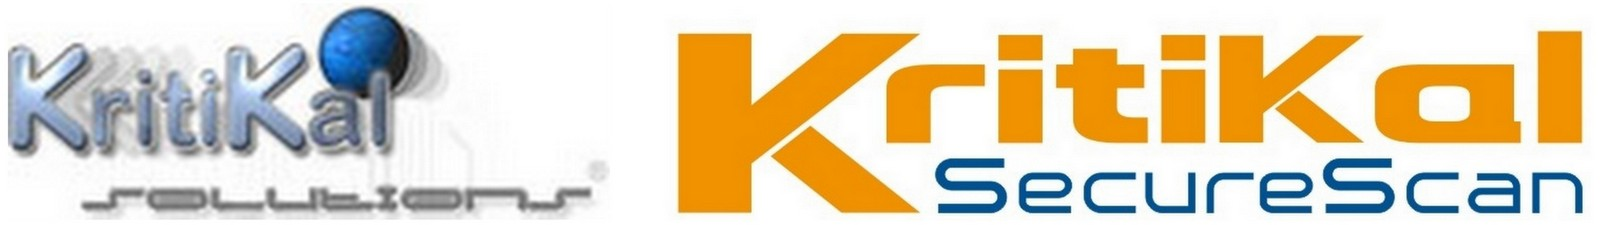
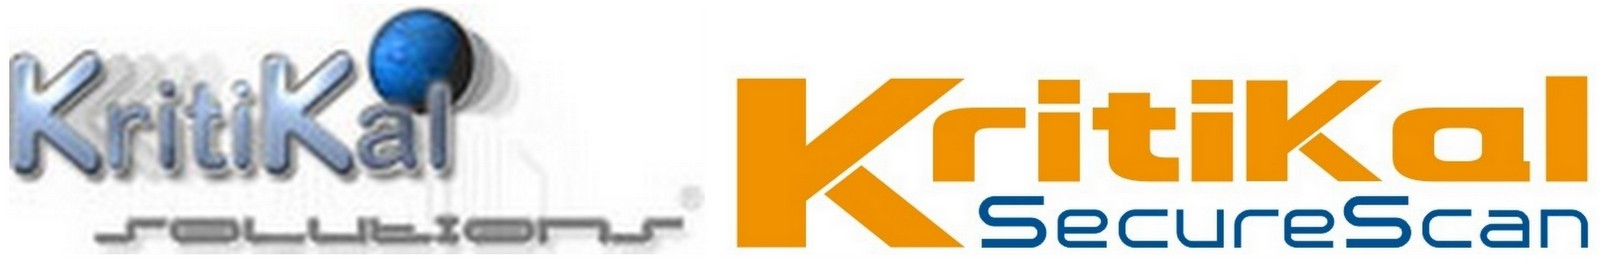
bugs fixed

diff --git a/style.css b/style.css
@@ -9,9 +9,9 @@ body { margin:0; padding:0; width:100%; color:#9a9a9a; font:normal 12px/1.8em Ar
 html,
 .main { padding:0; padding:0 0 0 0px; background:#fff url(images/main_bg2.jpg) top repeat:none;}
 .clr { clear:both; padding:0; margin:0; width:100%; font-size:0px; line-height:0px;}
-.logoleft { padding:0px 0px 0px 175px;  auto; width:100%; float:center;}
+.logoleft { padding:0px 0px 0px 175px; margin:auto; width:100%; float:center;}
 .logoleft img { float:left; margin:0px 10px 0px 0; }
-.logoright{ padding:10px 175px 0px 0; margin:0 auto; width:50px; float:right;}
+.logoright{ padding:10px 175px 0px 0; margin:0 auto; width:450px; float:right;position:relative}
 .logoright img { float:right; margin:0px 10px 0 0; }
 .logocenter{ padding:0px 0 0px 0; margin:0 auto; width:60%; position:left;}
 .logocenter img { float:center; margin:0px 10px 0 0; }
@@ -47,7 +47,7 @@ a.rm, a.com { margin-left:8px; padding:9px 12px; background:url(images/a_bg.gif)
 
 /* content */
 .content { padding:10px 0 0 0;}
-.content_resize { margin:0 auto; padding:20px 0 0 0; width:970px;}
+.content_resize { margin:0 auto; padding:20px 0 0 0; width:90%; min-width:970px; max-width:900px}
 .content .mainbar { margin:0; float:right;}
 .content .mainbar img { float:left; padding:4px; margin:0 10px 0 0; background-color:#dfdfdf;}
 

diff --git a/openhouse/style.css b/openhouse/style.css
@@ -11,7 +11,7 @@ html,
 .clr { clear:both; padding:0; margin:0; width:100%; font-size:0px; line-height:0px;}
 .logoleft { padding:0px 0px 0px 175px;  auto; width:100%; float:center;}
 .logoleft img { float:left; margin:0px 10px 0px 0; }
-.logoright{ padding:10px 175px 0px 0; margin:0 auto; width:50px; float:right;}
+.logoright{ padding:10px 175px 0px 0; margin:0 auto; width:450px; float:right;position:relative}
 .logoright img { float:right; margin:0px 10px 0 0; }
 .logocenter{ padding:0px 0 0px 0; margin:0 auto; width:60%; position:left;}
 .logocenter img { float:center; margin:0px 10px 0 0; }

diff --git a/style2.css b/style2.css
@@ -12,7 +12,7 @@ html,
 .clr { clear:both; padding:0; margin:0; width:100%; font-size:0px; line-height:0px;}
 .logoleft { padding:0px 0px 0px 175px;  auto; width:100%; float:center;}
 .logoleft img { float:left; margin:0px 10px 0px 0; }
-.logoright{ padding:10px 175px 0px 0; margin:0 auto; width:50px; float:right;}
+.logoright{ padding:10px 175px 0px 0; margin:0 auto; width:450px; float:right;position:relative}
 .logoright img { float:right; margin:0px 10px 0 0; }
 .logocenter{ padding:0px 0 0px 0; margin:0 auto; width:60%; position:left;}
 .logocenter img { float:center; margin:0px 10px 0 0; }

diff --git a/register.html b/register.html
@@ -53,11 +53,11 @@
     </script>
     <div class="logoright">
         <a target=_blank href="http://iiitd.ac.in"><img src="images/style3colorlarge.jpg" height="70px" width="auto"></a>
-        <img src="images/kskss.jpg" height="45px" width="auto"> 
+        <img src="images/kskss.jpg" height="55px" width="auto"> 
     </div>
 
     <div class="logoleft">
-        <a href="index.html"><img src="images/rslogowithquote.jpg" height="150px" width="auto"></a>
+        <a href="index.html"><img src="images/rslogowithquote.jpg" height="150px" width="550px"></a>
     </div>
 </head>
 <body>

diff --git a/IOT.html b/IOT.html
@@ -25,11 +25,11 @@
     </script>
     <div class="logoright">
         <a target=_blank href="http://iiitd.ac.in"><img src="images/style3colorlarge.jpg" height="70px" width="auto"></a>
-        <img src="images/kskss.jpg" height="45px" width="auto">
+        <img src="images/kskss.jpg" height="55px" width="auto">
     </div>
 
     <div class="logoleft">
-        <a href="index.html"><img src="images/rslogowithquote.jpg" height="150px" width="auto"></a>
+        <a href="index.html"><img src="images/rslogowithquote.jpg" height="150px" width="550px"></a>
     </div>
 </head>
 <body>

diff --git a/IOTideas.html b/IOTideas.html
@@ -25,11 +25,11 @@
     </script>
     <div class="logoright">
         <a target=_blank href="http://iiitd.ac.in"><img src="images/style3colorlarge.jpg" height="70px" width="auto"></a>
-        <img src="images/kskss.jpg" height="45px" width="auto">
+        <img src="images/kskss.jpg" height="55px" width="auto">
     </div>
 
     <div class="logoleft">
-        <a href="index.html"><img src="images/rslogowithquote.jpg" height="150px" width="auto"></a>
+        <a href="index.html"><img src="images/rslogowithquote.jpg" height="150px" width="550px"></a>
     </div>
 </head>
 <body>

diff --git a/events.html b/events.html
@@ -25,11 +25,11 @@
     </script>
     <div class="logoright">
         <a target=_blank href="http://iiitd.ac.in"><img src="images/style3colorlarge.jpg" height="70px" width="auto"></a>
-        <img src="images/kskss.jpg" height="45px" width="auto">
+        <img src="images/kskss.jpg" height="55px" width="auto">
     </div>
 
     <div class="logoleft">
-        <a href="index.html"><img src="images/rslogowithquote.jpg" height="150px" width="auto"></a>
+        <a href="index.html"><img src="images/rslogowithquote.jpg" height="150px" width="550px"></a>
     </div>
 </head>
 <body>

diff --git a/faq.html b/faq.html
@@ -25,11 +25,11 @@
     </script>
     <div class="logoright">
         <a target=_blank href="http://iiitd.ac.in"><img src="images/style3colorlarge.jpg" height="70px" width="auto"></a>
-        <img src="images/kskss.jpg" height="45px" width="auto">
+        <img src="images/kskss.jpg" height="55px" width="auto">
     </div>
 
     <div class="logoleft">
-        <a href="index.html"><img src="images/rslogowithquote.jpg" height="150px" width="auto"></a>
+        <a href="index.html"><img src="images/rslogowithquote.jpg" height="150px" width="550px"></a>
     </div>
 </head>
 <body>

diff --git a/contact.html b/contact.html
@@ -25,11 +25,11 @@
     </script>
     <div class="logoright">
         <a target=_blank href="http://iiitd.ac.in"><img src="images/style3colorlarge.jpg" height="70px" width="auto"></a>
-         <img src="images/kskss.jpg" height="45px" width="auto"> 
+         <img src="images/kskss.jpg" height="55px" width="auto"> 
     </div>
 
     <div class="logoleft">
-        <a href="index.html"><img src="images/rslogowithquote.jpg" height="150px" width="auto"></a>
+        <a href="index.html"><img src="images/rslogowithquote.jpg" height="150px" width="550px"></a>
     </div>
 
 </head>

diff --git a/index.html b/index.html
@@ -30,12 +30,12 @@
     	
     <div class="logoright">
         <a target=_blank href="http://iiitd.ac.in"><img src="images/style3colorlarge.jpg" height="70px" width="auto"></a>
-        <img src="images/kskss.jpg" height="45px" width="auto">
+        <img src="images/kskss.jpg" height="55px" width="auto">
         
     </div>
 
     <div class="logoleft">
-        <a href="index.html"><img src="images/rslogowithquote.jpg" height="150px" width="auto"></a>
+        <a href="index.html"><img src="images/rslogowithquote.jpg" height="150px" width="550px"></a>
     </div>
  
  <!--

diff --git a/openhouse/style2.css b/openhouse/style2.css
@@ -12,7 +12,7 @@ html,
 .clr { clear:both; padding:0; margin:0; width:100%; font-size:0px; line-height:0px;}
 .logoleft { padding:0px 0px 0px 175px;  auto; width:100%; float:center;}
 .logoleft img { float:left; margin:0px 10px 0px 0; }
-.logoright{ padding:10px 175px 0px 0; margin:0 auto; width:50px; float:right;}
+.logoright{ padding:10px 175px 0px 0; margin:0 auto; width:450px; float:right;}
 .logoright img { float:right; margin:0px 10px 0 0; }
 .logocenter{ padding:0px 0 0px 0; margin:0 auto; width:60%; position:left;}
 .logocenter img { float:center; margin:0px 10px 0 0; }

diff --git a/gallery.html b/gallery.html
@@ -25,11 +25,11 @@
     </script>
     <div class="logoright">
         <a target=_blank href="http://iiitd.ac.in"><img src="images/style3colorlarge.jpg" height="70px" width="auto"></a>
-        <img src="images/kskss.jpg" height="45px" width="auto">
+        <img src="images/kskss.jpg" height="55px" width="auto">
     </div>
 
     <div class="logoleft">
-        <a href="index.html"><img src="images/rslogowithquote.jpg" height="150px" width="auto"></a>
+        <a href="index.html"><img src="images/rslogowithquote.jpg" height="150px" width="550px"></a>
     </div>
 
 </head>
